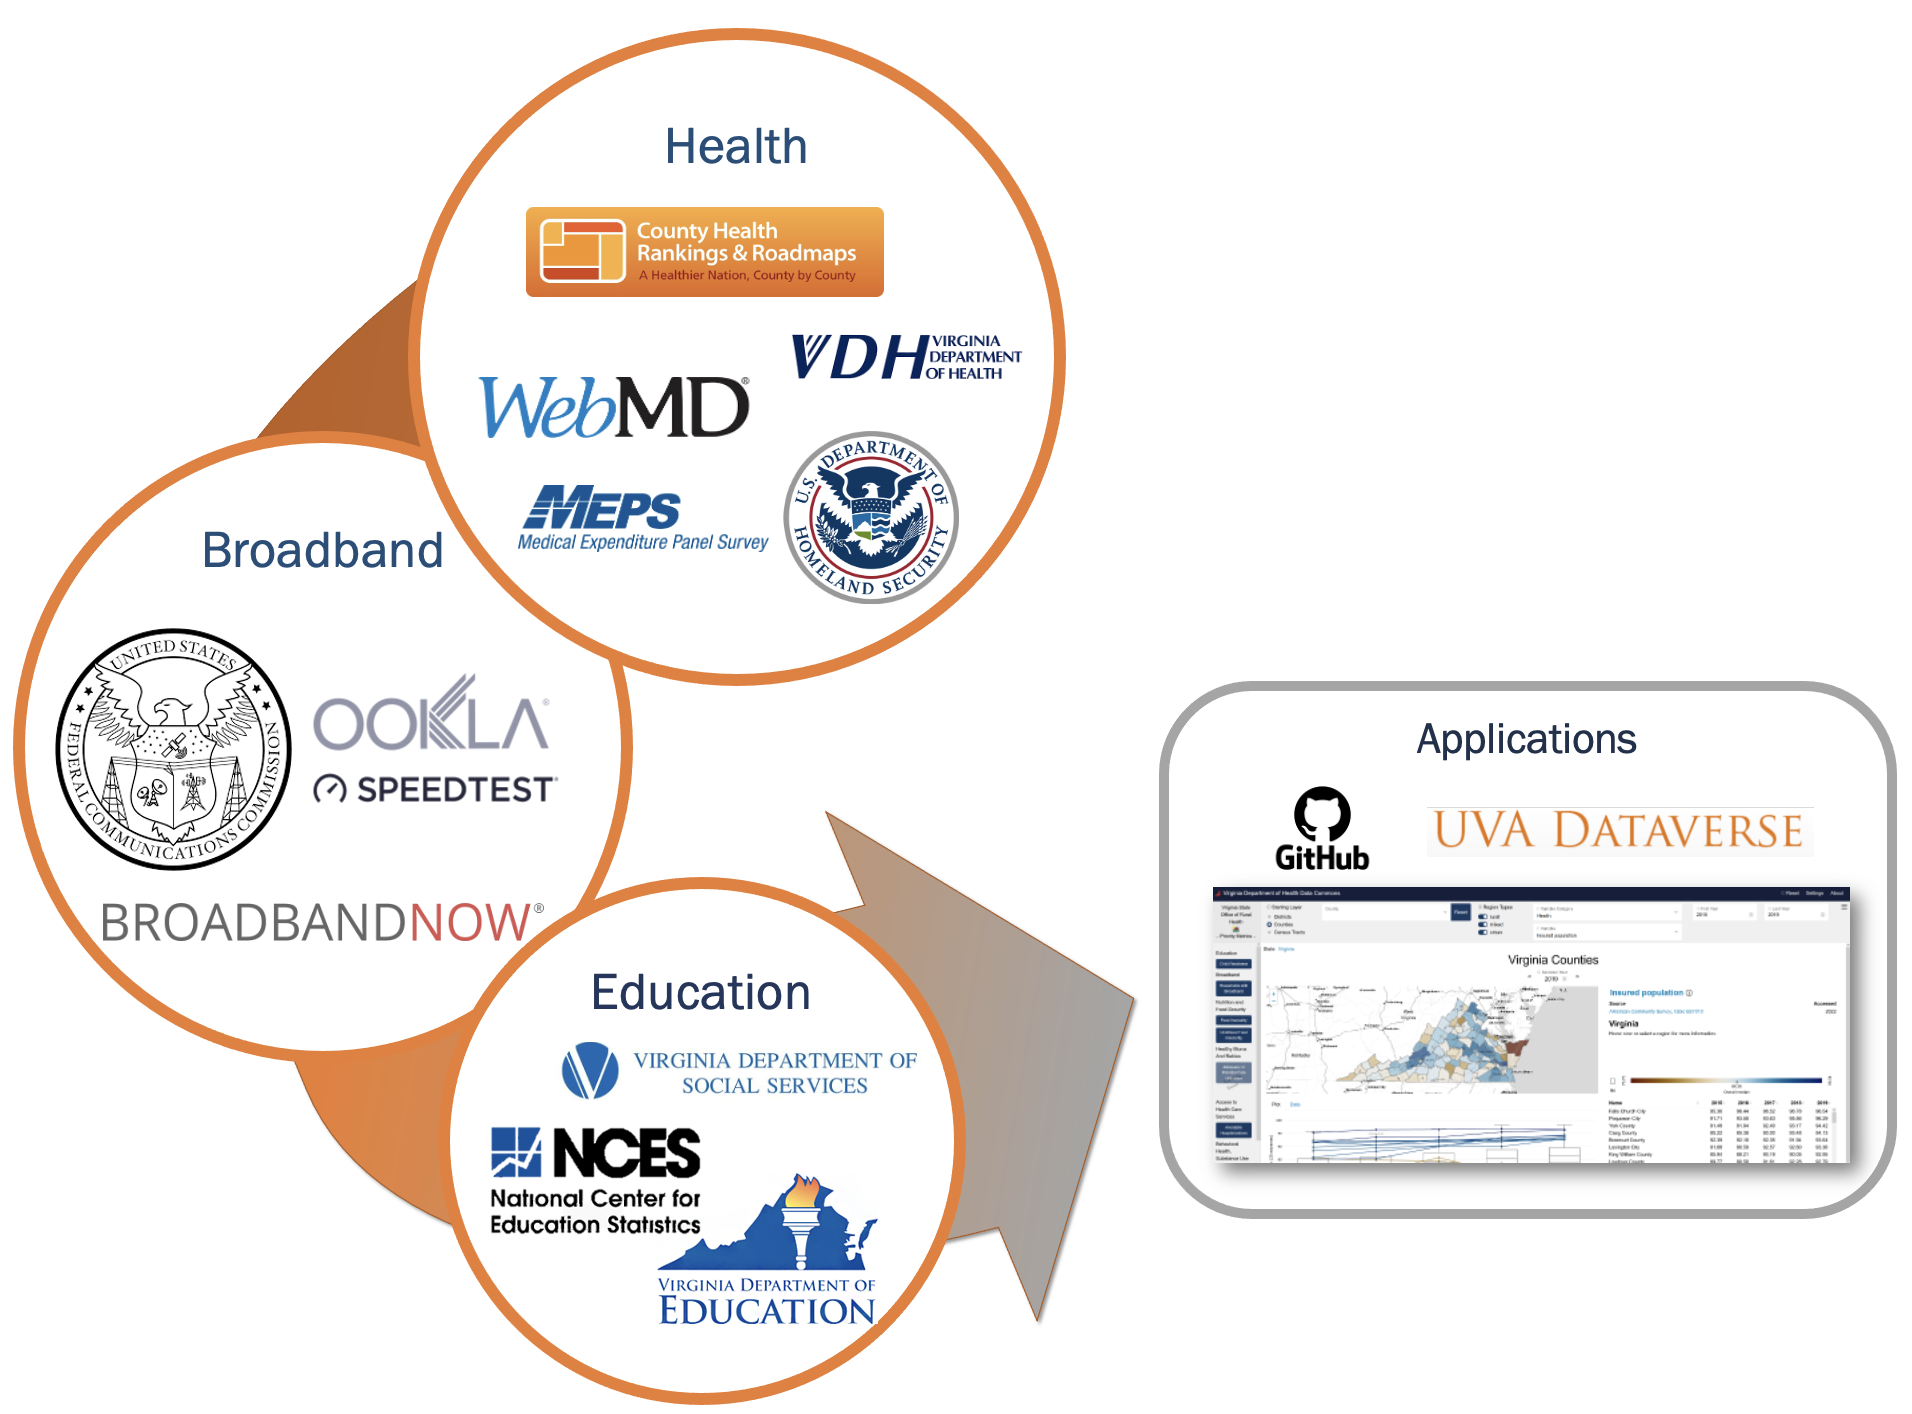
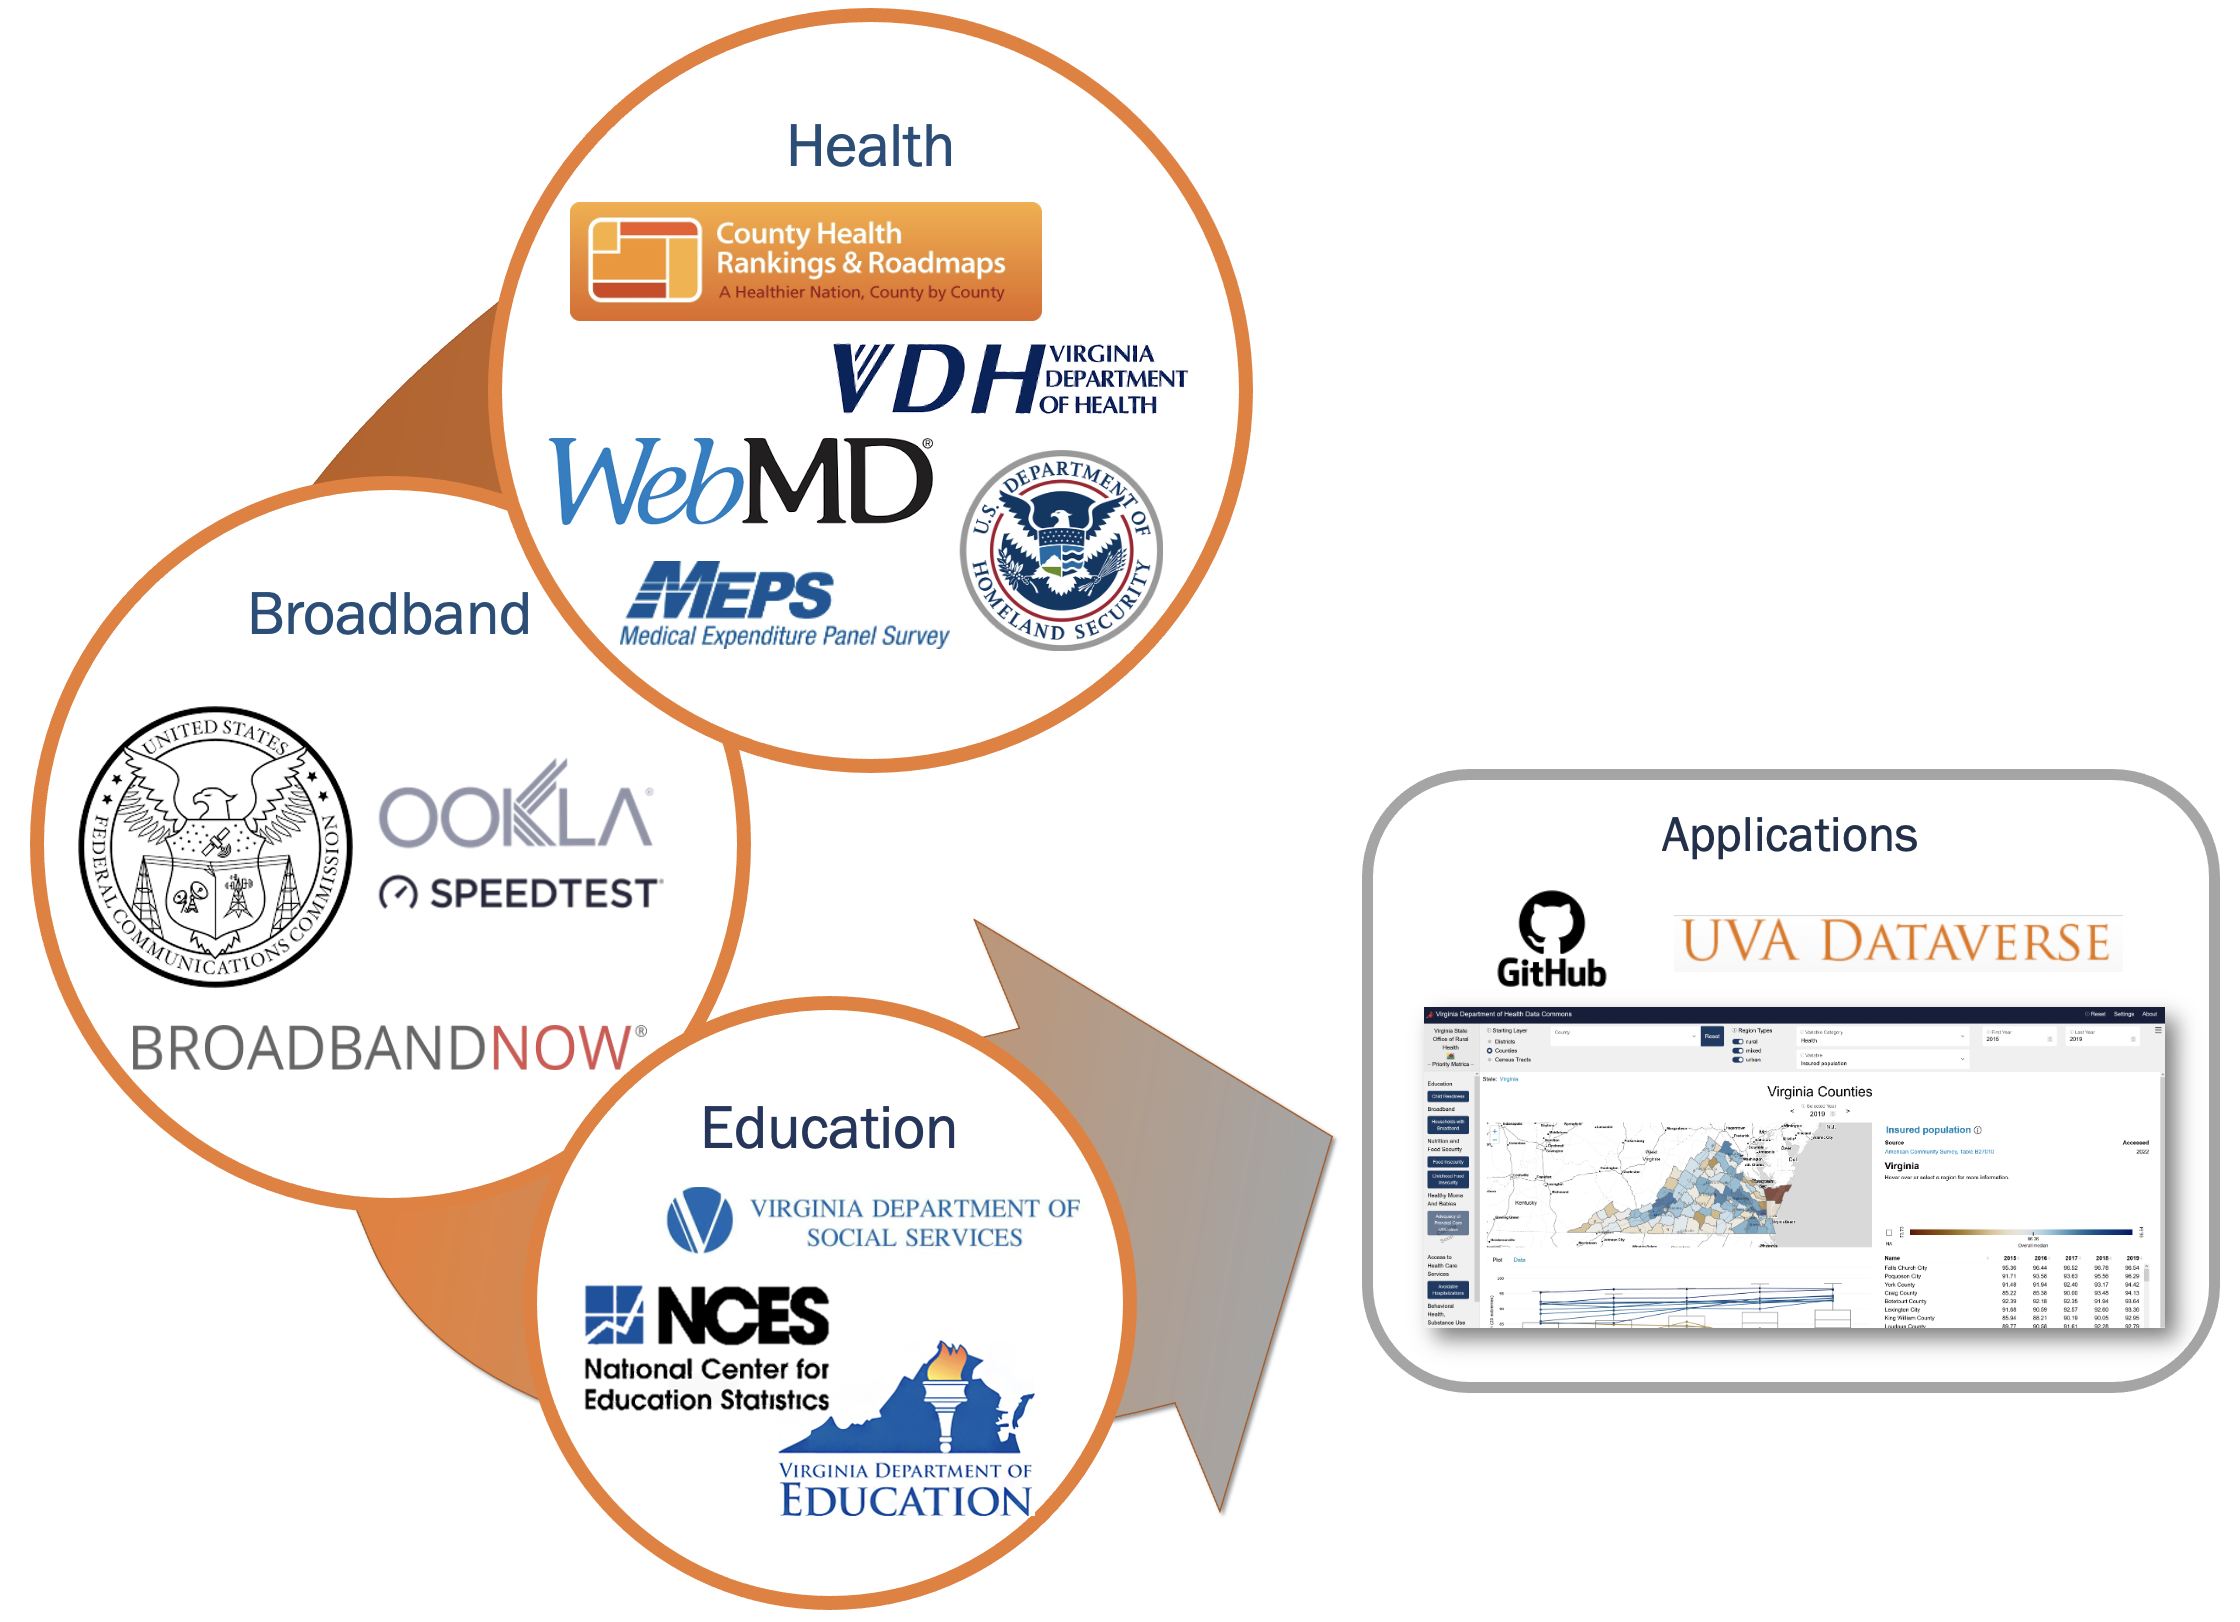
changing graphics size

diff --git a/docs/data.html b/docs/data.html
@@ -318,11 +318,13 @@ $(document).ready(function () {
 
 
 <p>Visit our <a href="https://github.com/uva-bi-sdad">public data repositories</a>.</p>
-<p><img src="img/data-repographic.png" /></p>
+<center>
+<img src="img/data-repographic.png" title="fig:" width="600" alt="Our public data repositories include information on housing, food, financial well-being, transport, broadband, environment, education, health, and business climate" />
+</center>
 <div id="data-library" class="section level3">
 <h3>Data library</h3>
-<div id="htmlwidget-4e1aafde9a9620f1d29b" class="reactable html-widget" style="width:auto;height:auto;"></div>
-<script type="application/json" data-for="htmlwidget-4e1aafde9a9620f1d29b">{"x":{"tag":{"name":"Reactable","attribs":{"data":{"REPO":["Food","Food","Food","Food","Food","Food","Food","Food","Food","Broadband","Broadband","Broadband","Broadband","Broadband","Broadband","Health","Health","Health","Health","Health","Health","Health","Health","Health","Health","Health","Health","Health","Health","Health","Health","Health","Health","Health","Health","Health","Health","Health","Health","Health","Health","Health","Health","Health","Education","Education","Education","Education"],"DATATYPE":["Service","Service","Service","Service","Service","Service","Program","Population","Population","Service","Service","Service","Population","Population","Population","Service","Service","Service","Service","Service","Service","Service","Service","Service","Service","Service","Service","Service","Service","Service","Service","Service","Service","Service","Service","Service","Population","Population","Population","Population","Population","Population","Population","Population","Service","Service","Population","Population"],"DATACATEGORY":["Grocery Stores","Grocery Stores","Restaurants","Food Pantries","Food Items","Food Items","Food Support Programs","Food Security","Food Environment","Wired Landline","Wired Landline","Wired Landline","Internet Access","Computer Access","Cost vs Income","Physicians OBGYN","Physicians OBGYN","Physicians OBGYN","Physicians OBGYN","Physicians Primary Care","Physicians Primary Care","Physicians Primary Care","Physicians Primary Care","Physicians Pediatricians","Physicians Pediatricians","Physicians Pediatricians","Physicians Pediatricians","Dentists","Dentists","Dentists","Dentists","Hospitals and ERs","Urgent Care Centers","Mental Health Programs","Drug and Rehab Programs","Long Term Care","Reproductive Health","Hospitalization","Health Insurance","Mental Health","Physical Health","Substance Abuse","Births and Deaths","Diseases and Conditions","Early Childhood Programs","Postsecondary Schools","Educational Performance","Educational Attainment"],"DATATOPIC":["Location Access","Availability","Location Access","Location Access","Location Access","Cost","Usage","","","Location Availability","Performance","Cost","","","","Location Access","Availability","Cost","Staffing","Location Access","Availability","Cost","Staffing","Location Access","Availability","Cost","Staffing","Location Access","Availability","Cost","Staffing","Location Access","Location Access","Location Access","Location Access","Location Access","","","","","","","","","Location Access","Location Access","",""],"DATASETS":["Location Maps; Travel Times; Catchment Areas","Hours","Location Maps; Travel Times; Catchment Areas","Location Maps; Travel Times; Catchment Areas","Location Maps; Travel Times; Catchment Areas; and Average Costs of Individual Food Items","Item Costs Lists","Pct SNAP recipients per geography; Pct WIC recipients per geogaphy","Food Insecurity; Child Food Insecurity","Retail Food Environment; Average Meal Cost","Location Maps by Available Speed","Avg download speeds; Avg jitter/delay","Package Pricing","Households with Internet Access; Households with Broadband Speed Internet Access","Households with a Computer","Percent of Household Income for Broadband at different speeds","Location Maps; Travel Times; Catchment Areas","Pct accepting new patients","Pct accepting medicare/medicaid","Share of FTE shortages in HPSAs filled by obligated providers","Location Maps; Travel Times; Catchment Areas","Pct accepting new patients","Pct accepting medicare/medicaid","Share of FTE shortages in HPSAs filled by obligated providers","Location Maps; Travel Times; Catchment Areas","Pct accepting new patients","Pct accepting medicare/medicaid","Share of FTE shortages in HPSAs filled by obligated providers","Location Maps; Travel Times; Catchment Areas","Pct accepting new patients","Pct accepting medicare/medicaid","Share of FTE shortages in HPSAs filled by obligated providers","Location Maps; Travel Times; Catchment Areas, Capacity Data for Hospitals and ERs","Location Maps; Travel Times; Catchment Areas","Location Maps; Travel Times; Catchment Areas","Location Maps; Travel Times; Catchment Areas","Location Maps; Travel Times; Catchment Areas","Adequacy of Prenatal Care (Kotelchuck)","Preventable Hospitalizations","Pct without health insurance","Pct reporting poor mental health 14 days+ per month","Pct reporting poor physical health 14 days+ per month","Monthly average ED visits for drug overdose","","","Location Maps; Travel Times; Catchment Areas, Capacity Data for day cares","Location Maps; Travel Times; Catchment Areas for 2-year schools and specific programs (engineering, computer science, etc) ","3rd Grade Reading Scores","Pct with postsecondary education"]},"columns":[{"accessor":"REPO","name":"REPO","type":"character"},{"accessor":"DATATYPE","name":"DATATYPE","type":"character"},{"accessor":"DATACATEGORY","name":"DATACATEGORY","type":"character"},{"accessor":"DATATOPIC","name":"DATATOPIC","type":"character"},{"accessor":"DATASETS","name":"DATASETS","type":"character"}],"pivotBy":["REPO","DATATYPE","DATACATEGORY"],"defaultPageSize":10,"paginationType":"numbers","showPageInfo":true,"minRows":1,"dataKey":"1ccfedf84e3a69af301608cf478912a6","key":"1ccfedf84e3a69af301608cf478912a6"},"children":[]},"class":"reactR_markup"},"evals":[],"jsHooks":[]}</script>
+<div id="htmlwidget-65bed06093a889ce6d1a" class="reactable html-widget" style="width:auto;height:auto;"></div>
+<script type="application/json" data-for="htmlwidget-65bed06093a889ce6d1a">{"x":{"tag":{"name":"Reactable","attribs":{"data":{"REPO":["Food","Food","Food","Food","Food","Food","Food","Food","Food","Broadband","Broadband","Broadband","Broadband","Broadband","Broadband","Health","Health","Health","Health","Health","Health","Health","Health","Health","Health","Health","Health","Health","Health","Health","Health","Health","Health","Health","Health","Health","Health","Health","Health","Health","Health","Health","Health","Health","Education","Education","Education","Education"],"DATATYPE":["Service","Service","Service","Service","Service","Service","Program","Population","Population","Service","Service","Service","Population","Population","Population","Service","Service","Service","Service","Service","Service","Service","Service","Service","Service","Service","Service","Service","Service","Service","Service","Service","Service","Service","Service","Service","Population","Population","Population","Population","Population","Population","Population","Population","Service","Service","Population","Population"],"DATACATEGORY":["Grocery Stores","Grocery Stores","Restaurants","Food Pantries","Food Items","Food Items","Food Support Programs","Food Security","Food Environment","Wired Landline","Wired Landline","Wired Landline","Internet Access","Computer Access","Cost vs Income","Physicians OBGYN","Physicians OBGYN","Physicians OBGYN","Physicians OBGYN","Physicians Primary Care","Physicians Primary Care","Physicians Primary Care","Physicians Primary Care","Physicians Pediatricians","Physicians Pediatricians","Physicians Pediatricians","Physicians Pediatricians","Dentists","Dentists","Dentists","Dentists","Hospitals and ERs","Urgent Care Centers","Mental Health Programs","Drug and Rehab Programs","Long Term Care","Reproductive Health","Hospitalization","Health Insurance","Mental Health","Physical Health","Substance Abuse","Births and Deaths","Diseases and Conditions","Early Childhood Programs","Postsecondary Schools","Educational Performance","Educational Attainment"],"DATATOPIC":["Location Access","Availability","Location Access","Location Access","Location Access","Cost","Usage","","","Location Availability","Performance","Cost","","","","Location Access","Availability","Cost","Staffing","Location Access","Availability","Cost","Staffing","Location Access","Availability","Cost","Staffing","Location Access","Availability","Cost","Staffing","Location Access","Location Access","Location Access","Location Access","Location Access","","","","","","","","","Location Access","Location Access","",""],"DATASETS":["Location Maps; Travel Times; Catchment Areas","Hours","Location Maps; Travel Times; Catchment Areas","Location Maps; Travel Times; Catchment Areas","Location Maps; Travel Times; Catchment Areas; and Average Costs of Individual Food Items","Item Costs Lists","Pct SNAP recipients per geography; Pct WIC recipients per geogaphy","Food Insecurity; Child Food Insecurity","Retail Food Environment; Average Meal Cost","Location Maps by Available Speed","Avg download speeds; Avg jitter/delay","Package Pricing","Households with Internet Access; Households with Broadband Speed Internet Access","Households with a Computer","Percent of Household Income for Broadband at different speeds","Location Maps; Travel Times; Catchment Areas","Pct accepting new patients","Pct accepting medicare/medicaid","Share of FTE shortages in HPSAs filled by obligated providers","Location Maps; Travel Times; Catchment Areas","Pct accepting new patients","Pct accepting medicare/medicaid","Share of FTE shortages in HPSAs filled by obligated providers","Location Maps; Travel Times; Catchment Areas","Pct accepting new patients","Pct accepting medicare/medicaid","Share of FTE shortages in HPSAs filled by obligated providers","Location Maps; Travel Times; Catchment Areas","Pct accepting new patients","Pct accepting medicare/medicaid","Share of FTE shortages in HPSAs filled by obligated providers","Location Maps; Travel Times; Catchment Areas, Capacity Data for Hospitals and ERs","Location Maps; Travel Times; Catchment Areas","Location Maps; Travel Times; Catchment Areas","Location Maps; Travel Times; Catchment Areas","Location Maps; Travel Times; Catchment Areas","Adequacy of Prenatal Care (Kotelchuck)","Preventable Hospitalizations","Pct without health insurance","Pct reporting poor mental health 14 days+ per month","Pct reporting poor physical health 14 days+ per month","Monthly average ED visits for drug overdose","","","Location Maps; Travel Times; Catchment Areas, Capacity Data for day cares","Location Maps; Travel Times; Catchment Areas for 2-year schools and specific programs (engineering, computer science, etc) ","3rd Grade Reading Scores","Pct with postsecondary education"]},"columns":[{"accessor":"REPO","name":"REPO","type":"character"},{"accessor":"DATATYPE","name":"DATATYPE","type":"character"},{"accessor":"DATACATEGORY","name":"DATACATEGORY","type":"character"},{"accessor":"DATATOPIC","name":"DATATOPIC","type":"character"},{"accessor":"DATASETS","name":"DATASETS","type":"character"}],"pivotBy":["REPO","DATATYPE","DATACATEGORY"],"defaultPageSize":10,"paginationType":"numbers","showPageInfo":true,"minRows":1,"dataKey":"1ccfedf84e3a69af301608cf478912a6","key":"1ccfedf84e3a69af301608cf478912a6"},"children":[]},"class":"reactR_markup"},"evals":[],"jsHooks":[]}</script>
 </div>
 
 
